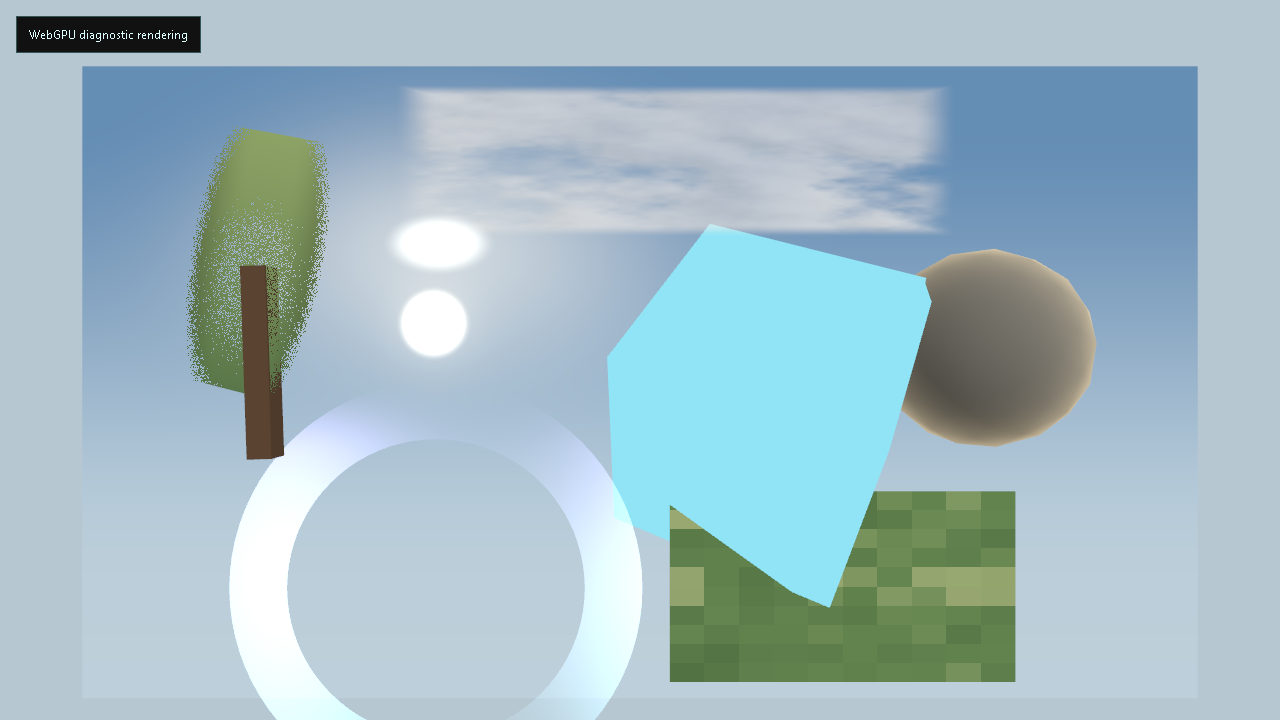
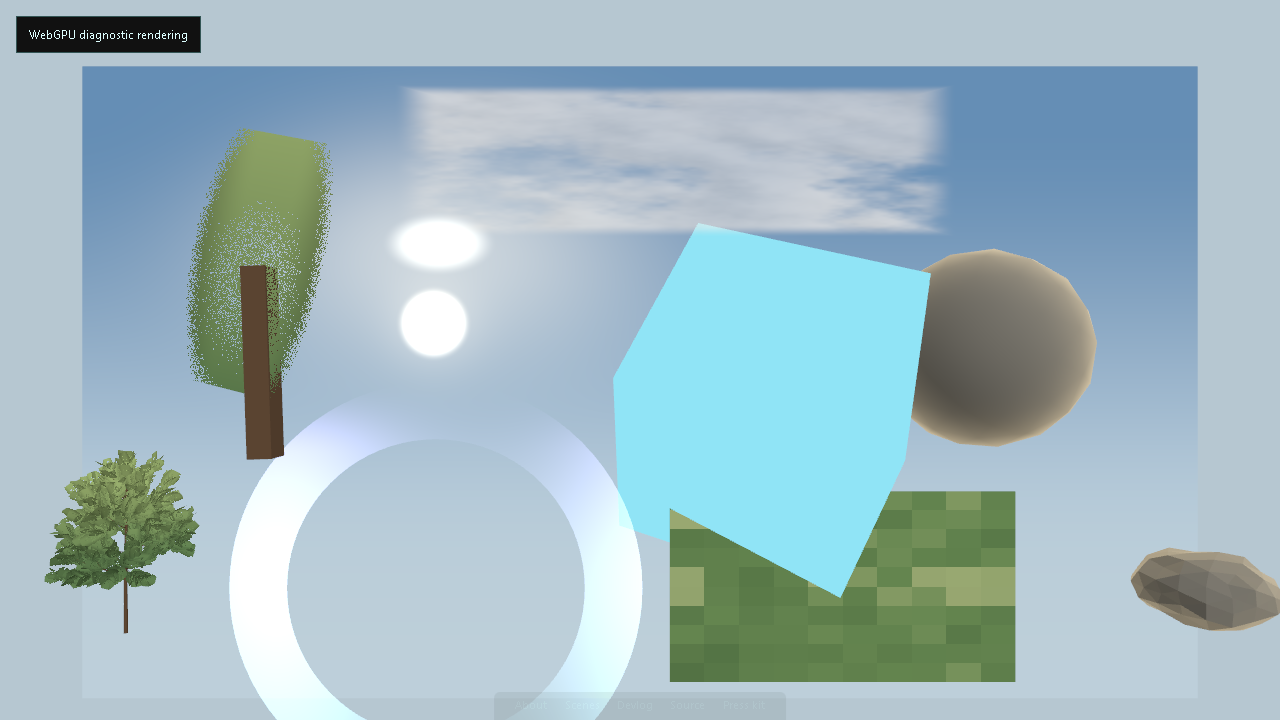
feat(konveyor): render diagnostic glb clones

diff --git a/js/diagnostics/webgpuRuntimeGlbPreview.js b/js/diagnostics/webgpuRuntimeGlbPreview.js
@@ -1,0 +1,150 @@
+import {
+    replaceRockMaterialsByTraversal,
+    replaceTreeMaterialsByName,
+} from './webgpuMaterialReplacement.js';
+
+const DRACO_DECODER_PATH = 'https://www.gstatic.com/draco/v1/decoders/';
+
+export const RUNTIME_GLB_RENDER_PREVIEW_ASSETS = [
+    {
+        key: 'tree1-lod0',
+        role: 'tree',
+        path: 'assets/models/trees/tree1.glb',
+        targetHeight: 0.72,
+        position: [-1.98, -0.86, 0.32],
+        rotationY: 0.35,
+    },
+    {
+        key: 'rock1-lod0',
+        role: 'rock',
+        path: 'assets/models/rocks/rock1.glb',
+        targetHeight: 0.46,
+        position: [2.18, -0.82, 0.32],
+        rotationY: -0.25,
+    },
+];
+
+async function loadGltfLoaderModules() {
+    const vendorPath = './vendor/three/examples/jsm/';
+    const [
+        { GLTFLoader },
+        { DRACOLoader },
+        { MeshoptDecoder },
+    ] = await Promise.all([
+        import(/* @vite-ignore */ new URL(`${vendorPath}loaders/GLTFLoader.js`, import.meta.url).href),
+        import(/* @vite-ignore */ new URL(`${vendorPath}loaders/DRACOLoader.js`, import.meta.url).href),
+        import(/* @vite-ignore */ new URL(`${vendorPath}libs/meshopt_decoder.module.js`, import.meta.url).href),
+    ]);
+
+    return { GLTFLoader, DRACOLoader, MeshoptDecoder };
+}
+
+function createGltfLoader({ GLTFLoader, DRACOLoader, MeshoptDecoder }) {
+    const dracoLoader = new DRACOLoader();
+    dracoLoader.setDecoderPath(DRACO_DECODER_PATH);
+    const loader = new GLTFLoader();
+    loader.setDRACOLoader(dracoLoader);
+    loader.setMeshoptDecoder(MeshoptDecoder);
+    return { loader, dracoLoader };
+}
+
+function loadScene(loader, path) {
+    return new Promise((resolve, reject) => {
+        loader.load(
+            path,
+            (gltf) => resolve(gltf.scene),
+            undefined,
+            (err) => reject(err)
+        );
+    });
+}
+
+function fitAsset(asset, root, { Box3, Vector3 }) {
+    const initialBox = new Box3().setFromObject(root);
+    const initialSize = initialBox.getSize(new Vector3());
+    const largestAxis = Math.max(initialSize.x, initialSize.y, initialSize.z, 0.001);
+    const scale = asset.targetHeight / largestAxis;
+    root.scale.multiplyScalar(scale);
+    root.rotation.y = asset.rotationY;
+
+    const scaledBox = new Box3().setFromObject(root);
+    const center = scaledBox.getCenter(new Vector3());
+    root.position.sub(center);
+
+    const centeredBox = new Box3().setFromObject(root);
+    root.position.y += asset.position[1] - centeredBox.min.y;
+    root.position.x += asset.position[0];
+    root.position.z += asset.position[2];
+
+    const finalBox = new Box3().setFromObject(root);
+    const finalSize = finalBox.getSize(new Vector3());
+    return {
+        scale: Number(scale.toFixed(4)),
+        width: Number(finalSize.x.toFixed(4)),
+        height: Number(finalSize.y.toFixed(4)),
+        depth: Number(finalSize.z.toFixed(4)),
+    };
+}
+
+function disposeLoadedScene(root) {
+    root.traverse((child) => {
+        if (!child.isMesh) return;
+        child.geometry?.dispose?.();
+        const materials = Array.isArray(child.material) ? child.material : [child.material];
+        materials.forEach((material) => material?.dispose?.());
+    });
+}
+
+export async function createRuntimeGlbPreview({
+    scene,
+    three,
+    createTreeBranchMaterial,
+    createTreeLeafMaterial,
+    createRockMaterial,
+}) {
+    const loaderModules = await loadGltfLoaderModules();
+    const { loader, dracoLoader } = createGltfLoader(loaderModules);
+    const roots = [];
+    const rendered = [];
+
+    try {
+        for (const asset of RUNTIME_GLB_RENDER_PREVIEW_ASSETS) {
+            const root = await loadScene(loader, asset.path);
+            const replacement = asset.role === 'tree'
+                ? replaceTreeMaterialsByName(root, {
+                    branches: createTreeBranchMaterial,
+                    leaves: createTreeLeafMaterial,
+                })
+                : replaceRockMaterialsByTraversal(root, createRockMaterial);
+            const bounds = fitAsset(asset, root, three);
+            scene.add(root);
+            roots.push(root);
+            rendered.push({
+                key: asset.key,
+                role: asset.role,
+                path: asset.path,
+                replacement,
+                bounds,
+            });
+        }
+    } catch (err) {
+        roots.forEach((root) => {
+            scene.remove(root);
+            disposeLoadedScene(root);
+        });
+        throw err;
+    } finally {
+        dracoLoader.dispose();
+    }
+
+    return {
+        ok: rendered.every((item) => item.role === 'tree'
+            ? item.replacement.missingTargets.length === 0
+            : item.replacement.replacedMaterials > 0),
+        assets: RUNTIME_GLB_RENDER_PREVIEW_ASSETS.length,
+        rendered,
+        dispose() {
+            roots.forEach(disposeLoadedScene);
+        },
+    };
+}

diff --git a/js/diagnostics/webgpuDiagnostic.js b/js/diagnostics/webgpuDiagnostic.js
@@ -3,6 +3,7 @@ import {
     replaceTreeMaterialsByName,
 } from './webgpuMaterialReplacement.js';
 import { createRuntimeGlbMaterialReplacementProof } from './webgpuGlbMaterialProof.js';
+import { createRuntimeGlbPreview } from './webgpuRuntimeGlbPreview.js';
 
 async function loadWebGpuThree() {
     const webGpuModulePath = './vendor/three/three.webgpu.min.js';
@@ -277,12 +278,13 @@ export async function bootWebGpuDiagnostic() {
         requested: true,
         ok: false,
         renderer: 'webgpu',
-        islands: ['sun-billboard', 'portal-ring', 'meadow-quad', 'cloud-plane', 'sky-fog', 'rock-rim', 'tree-leaf', 'glb-material-replacement', 'runtime-glb-material-proof'],
+        islands: ['sun-billboard', 'portal-ring', 'meadow-quad', 'cloud-plane', 'sky-fog', 'rock-rim', 'tree-leaf', 'glb-material-replacement', 'runtime-glb-material-proof', 'runtime-glb-rendered-clones'],
         skyFog,
         rockRim,
         treeLeaf,
         materialReplacement: null,
         runtimeGlbReplacement: null,
+        runtimeGlbPreview: null,
         frames: 0,
     };
 
@@ -334,6 +336,8 @@ export async function bootWebGpuDiagnostic() {
         AdditiveBlending,
         DoubleSide,
         Group,
+        Box3,
+        Vector3,
         TSL,
     } = await loadWebGpuThree();
 
@@ -422,6 +426,24 @@ export async function bootWebGpuDiagnostic() {
         };
         return fail(`runtime GLB material proof failed: ${state.runtimeGlbReplacement.error}`);
     }
+    try {
+        state.runtimeGlbPreview = await createRuntimeGlbPreview({
+            scene,
+            three: { Box3, Vector3 },
+            createTreeBranchMaterial: () => createTreeBranchNodeMaterial({ MeshStandardNodeMaterial, TSL }),
+            createTreeLeafMaterial: () => createTreeLeafNodeMaterial({ MeshStandardNodeMaterial, DoubleSide, TSL }, treeLeaf),
+            createRockMaterial: () => createRockRimNodeMaterial({ MeshStandardNodeMaterial, TSL }, rockRim),
+        });
+        if (!state.runtimeGlbPreview.ok) {
+            return fail('runtime GLB rendered clone proof failed');
+        }
+    } catch (err) {
+        state.runtimeGlbPreview = {
+            ok: false,
+            error: String(err?.message || err),
+        };
+        return fail(`runtime GLB rendered clone proof failed: ${state.runtimeGlbPreview.error}`);
+    }
 
     const portal = new Mesh(
         new RingGeometry(0.62, 0.86, 80, 1),
@@ -494,6 +516,7 @@ export async function bootWebGpuDiagnostic() {
             const materials = Array.isArray(child.material) ? child.material : [child.material];
             materials.forEach((m) => m?.dispose?.());
         });
+        state.runtimeGlbPreview?.dispose?.();
         canvas.remove();
         status.remove();
     };

diff --git a/vite.config.js b/vite.config.js
@@ -12,6 +12,10 @@ const isNative = nativeTargets.has(buildTarget)
 const workerBase = (process.env.SDS_WORKER_BASE || 'https://sds-worker.matt-m-kissinger.workers.dev').replace(/\/+$/, '')
 const buildId = Date.now().toString()
 
+function patchThreeAddonImport(content) {
+  return content.replace(/from 'three';/g, "from '../../../three.core.min.js';")
+}
+
 // Cloudflare Pages has a 26MB per-file limit; .blend source files aren't needed at runtime.
 function excludeBlendFilesPlugin() {
   return {
@@ -66,7 +70,31 @@ export default defineConfig({
       targets: [
         { src: 'assets/*', dest: 'assets' },
         { src: 'node_modules/three/build/three.webgpu.min.js', dest: 'assets/vendor/three' },
-        { src: 'node_modules/three/build/three.core.min.js', dest: 'assets/vendor/three' }
+        { src: 'node_modules/three/build/three.core.min.js', dest: 'assets/vendor/three' },
+        {
+          src: 'node_modules/three/examples/jsm/loaders/GLTFLoader.js',
+          dest: 'assets/vendor/three/examples/jsm/loaders',
+          transform: { encoding: 'utf8', handler: patchThreeAddonImport }
+        },
+        {
+          src: 'node_modules/three/examples/jsm/loaders/DRACOLoader.js',
+          dest: 'assets/vendor/three/examples/jsm/loaders',
+          transform: { encoding: 'utf8', handler: patchThreeAddonImport }
+        },
+        {
+          src: 'node_modules/three/examples/jsm/utils/BufferGeometryUtils.js',
+          dest: 'assets/vendor/three/examples/jsm/utils',
+          transform: { encoding: 'utf8', handler: patchThreeAddonImport }
+        },
+        {
+          src: 'node_modules/three/examples/jsm/utils/SkeletonUtils.js',
+          dest: 'assets/vendor/three/examples/jsm/utils',
+          transform: { encoding: 'utf8', handler: patchThreeAddonImport }
+        },
+        {
+          src: 'node_modules/three/examples/jsm/libs/meshopt_decoder.module.js',
+          dest: 'assets/vendor/three/examples/jsm/libs'
+        }
       ]
     }),
     excludeBlendFilesPlugin(),

diff --git a/tests/webgpu-diagnostic.spec.js b/tests/webgpu-diagnostic.spec.js
@@ -15,6 +15,7 @@ import {
   parseGlbJson,
   RUNTIME_GLB_MATERIAL_PROOF_ASSETS,
 } from '../js/diagnostics/webgpuGlbMaterialProof.js';
+import { RUNTIME_GLB_RENDER_PREVIEW_ASSETS } from '../js/diagnostics/webgpuRuntimeGlbPreview.js';
 
 function createGlbBuffer(gltf) {
   const json = JSON.stringify(gltf);
@@ -171,5 +172,12 @@ describe('webgpu runtime glb material proof', () => {
       treeReplacementStrategy: 'material-name',
       rockReplacementStrategy: 'asset-class-traversal',
     });
+  });
+
+  it('renders only production GLBs covered by the runtime material proof', () => {
+    const proofPaths = new Set(RUNTIME_GLB_MATERIAL_PROOF_ASSETS.map((asset) => asset.path));
+
+    expect(RUNTIME_GLB_RENDER_PREVIEW_ASSETS.map((asset) => asset.role).sort()).toEqual(['rock', 'tree']);
+    expect(RUNTIME_GLB_RENDER_PREVIEW_ASSETS.every((asset) => proofPaths.has(asset.path))).toBe(true);
   });
 });

diff --git a/docs/archive/research/konveyor-shader-surface-inventory-2026-05-14.md b/docs/archive/research/konveyor-shader-surface-inventory-2026-05-14.md
@@ -26,8 +26,10 @@ replacement by `branches`/`leaves` names and rock replacement by mesh traversal
 without touching the default WebGL path. A follow-up browser runtime proof now
 fetches all seven shipped tree and rock GLBs inside the diagnostic path and
 applies the same replacement strategy to their real primitive/material
-contracts. Do not start production wiring with terrain, grass, water, sheep, or
-Kiln impostors.
+contracts. A rendered-clone diagnostic island now also loads `tree1.glb` and
+`rock1.glb` with the production GLTF/Draco/Meshopt path and renders them with
+WebGPU node-material replacements. Do not start production wiring with terrain,
+grass, water, sheep, or Kiln impostors.
 
 ## Active ShaderMaterial Surfaces
 
@@ -63,6 +65,9 @@ Replacement proof artifact:
 Runtime diagnostic proof artifact:
 `cycle36-validation/runtime/webgpu-diagnostic-chrome.json`
 
+Rendered clone screenshot artifact:
+`cycle36-validation/runtime/webgpu-diagnostic-islands-chrome.png`
+
 The ownership proof scans the shipped GLBs instead of trusting runtime
 comments:
 
@@ -88,6 +93,13 @@ comments:
   materials replaced through the expected strategies. It is still
   diagnostic-only; rendered production GLB clone wiring remains a separate
   gated step.
+- The rendered-clone island now loads `tree1.glb` and `rock1.glb` through
+  `GLTFLoader`, `DRACOLoader`, and `MeshoptDecoder`, replaces their materials
+  with the same WebGPU node-material strategy, and records
+  `runtimeGlbPreview.ok: true` with bounded clone dimensions in the Chrome
+  diagnostic artifact. These loader modules are copied to the diagnostic static
+  vendor path and imported by URL to avoid exporting them from the default
+  `main` chunk.
 
 ## Dormant Or Supporting Surfaces
 
@@ -106,9 +118,12 @@ comments:
    tree replacements may target `leaves` and `branches` by material name across
    LOD0/LOD1; rock replacements must use rock asset class or mesh traversal.
    The diagnostic replacement island, GLB primitive-clone proof, and browser
-   runtime GLB fetch proof cover both strategies. The next code island should
-   render runtime-loaded production GLB clones behind the WebGPU flag while
-   keeping the current WebGL `onBeforeCompile` patches as default.
+   runtime GLB fetch proof cover both strategies. The rendered-clone island now
+   proves a production tree and rock can load and render with WebGPU
+   node-material replacements. The next code island should choose whether to
+   expand the clone matrix across remaining LOD/species assets or promote the
+   tree/rock replacement adapter toward a feature-flagged production placement
+   path while keeping current WebGL `onBeforeCompile` patches as default.
 2. Keep sky/fog production wiring behind parity evidence for analytic colors,
    preset screenshots, and fog consumers.
 3. Defer terrain, water, blade grass, sheep, and Kiln impostors until the

diff --git a/docs/konveyor-autonomous-run.md b/docs/konveyor-autonomous-run.md
@@ -92,6 +92,12 @@ WebGPU now has a diagnostic island, not a production renderer:
   all seven shipped tree and rock GLBs, parses their primitive/material
   contracts, and proves 8 tree and 3 rock replacements through the expected
   strategies.
+- The same diagnostic artifact now records `runtime-glb-rendered-clones`: the
+  browser loads `tree1.glb` and `rock1.glb` through the production
+  GLTF/Draco/Meshopt loader stack, renders them in the WebGPU scene with node
+  material replacements, and reports `runtimeGlbPreview.ok: true`. The loader
+  modules are served through the diagnostic static vendor path so the default
+  `main` bundle stays inside the refactor-baseline ratchet.
 - [`archive/research/konveyor-atmosphere-ownership-2026-05-14.md`](archive/research/konveyor-atmosphere-ownership-2026-05-14.md)
   pins sky, fog, sun-color, and cloud ownership before cloud/sky WebGPU work.
 - [`../cycle36-validation/runtime/webgpu-diagnostic-islands-chrome.png`](../cycle36-validation/runtime/webgpu-diagnostic-islands-chrome.png)
@@ -111,10 +117,11 @@ Recommended order:
    replacement formula, and the tree-leaf TSL prototype covers wind,
    alpha-hash posture, and occluder fade inputs. GLB material ownership proof
    and a diagnostic replacement proof now exist, plus a GLB primitive-clone
-   proof and browser runtime fetch proof against the shipped compressed assets.
-   Prefer rendered runtime-loaded production GLB clone wiring next, using tree
-   material names for tree work and rock asset class or mesh traversal for rock
-   work.
+   proof, browser runtime fetch proof, and rendered production-GLB clone proof
+   against the shipped compressed assets. Prefer either expanding clone coverage
+   across the remaining tree/rock variants or promoting the tree/rock replacement
+   adapter toward feature-flagged production placement, using tree material
+   names for tree work and rock asset class or mesh traversal for rock work.
 2. **Keep measurement attached to every change.** Run the relevant perf,
    latency, screenshot, test, lint, and build gates before claiming progress.
 3. **Treat EZ-Tree refresh as a measured tree phase, not a side edit.** The

diff --git a/progress.md b/progress.md
@@ -31,3 +31,4 @@ Current prompt for the next autonomous run: /goal On branch exp/konveyor-webgpu-
 - 2026-05-14: Added a diagnostic-only WebGPU material replacement proof. Evidence now reports `islands: ["sun-billboard", "portal-ring", "meadow-quad", "cloud-plane", "sky-fog", "rock-rim", "tree-leaf", "glb-material-replacement"]`, with tree replacement by `branches`/`leaves` names and rock replacement by traversal; default production-preview evidence still reports `diagnostic: null`.
 - 2026-05-14: Added `cycle36-validation/runtime/material-replacement-proof.json`, proving the same tree-name and rock-traversal replacement strategies against primitive clones from the shipped compressed GLBs. Summary: tree targets resolved, 8 tree materials replaced, 3 rock materials replaced.
 - 2026-05-14: Added a browser runtime GLB material proof inside the WebGPU diagnostic path. `cycle36-validation/runtime/webgpu-diagnostic-chrome.json` now reports `runtime-glb-material-proof`, fetches all 7 shipped tree and rock GLBs under `?renderer=webgpu&diagnostic=1`, and records 8 tree material replacements plus 3 rock replacements while the default production-preview evidence still reports `diagnostic: null`.
+- 2026-05-14: Added a rendered production-GLB clone island inside the WebGPU diagnostic path. The Chrome artifact now reports `runtime-glb-rendered-clones`, loads `tree1.glb` and `rock1.glb` through diagnostic vendor-copied GLTF/Draco/Meshopt modules, replaces their materials with WebGPU node materials, and keeps the default production-preview evidence at `diagnostic: null`.

diff --git a/docs/konveyor-sds.md b/docs/konveyor-sds.md
@@ -58,8 +58,10 @@ As of 2026-05-14, SDS is not a WebGPU project yet.
   mesh traversal rather than material name. A follow-up primitive-clone proof
   applies those strategies to the shipped compressed GLBs, and the browser
   diagnostic now fetches all seven shipped tree and rock GLBs to prove the same
-  primitive/material replacement contracts without changing production runtime
-  wiring.
+  primitive/material replacement contracts. The diagnostic also renders
+  `tree1.glb` and `rock1.glb` with WebGPU node-material replacements through
+  the production GLTF/Draco/Meshopt loader path without changing production
+  runtime wiring.
 - The deterministic `shared/` boundary is unchanged. Konveyor is a rendering,
   packaging, and performance campaign unless a cycle explicitly authorizes a
   shared-sim change.
